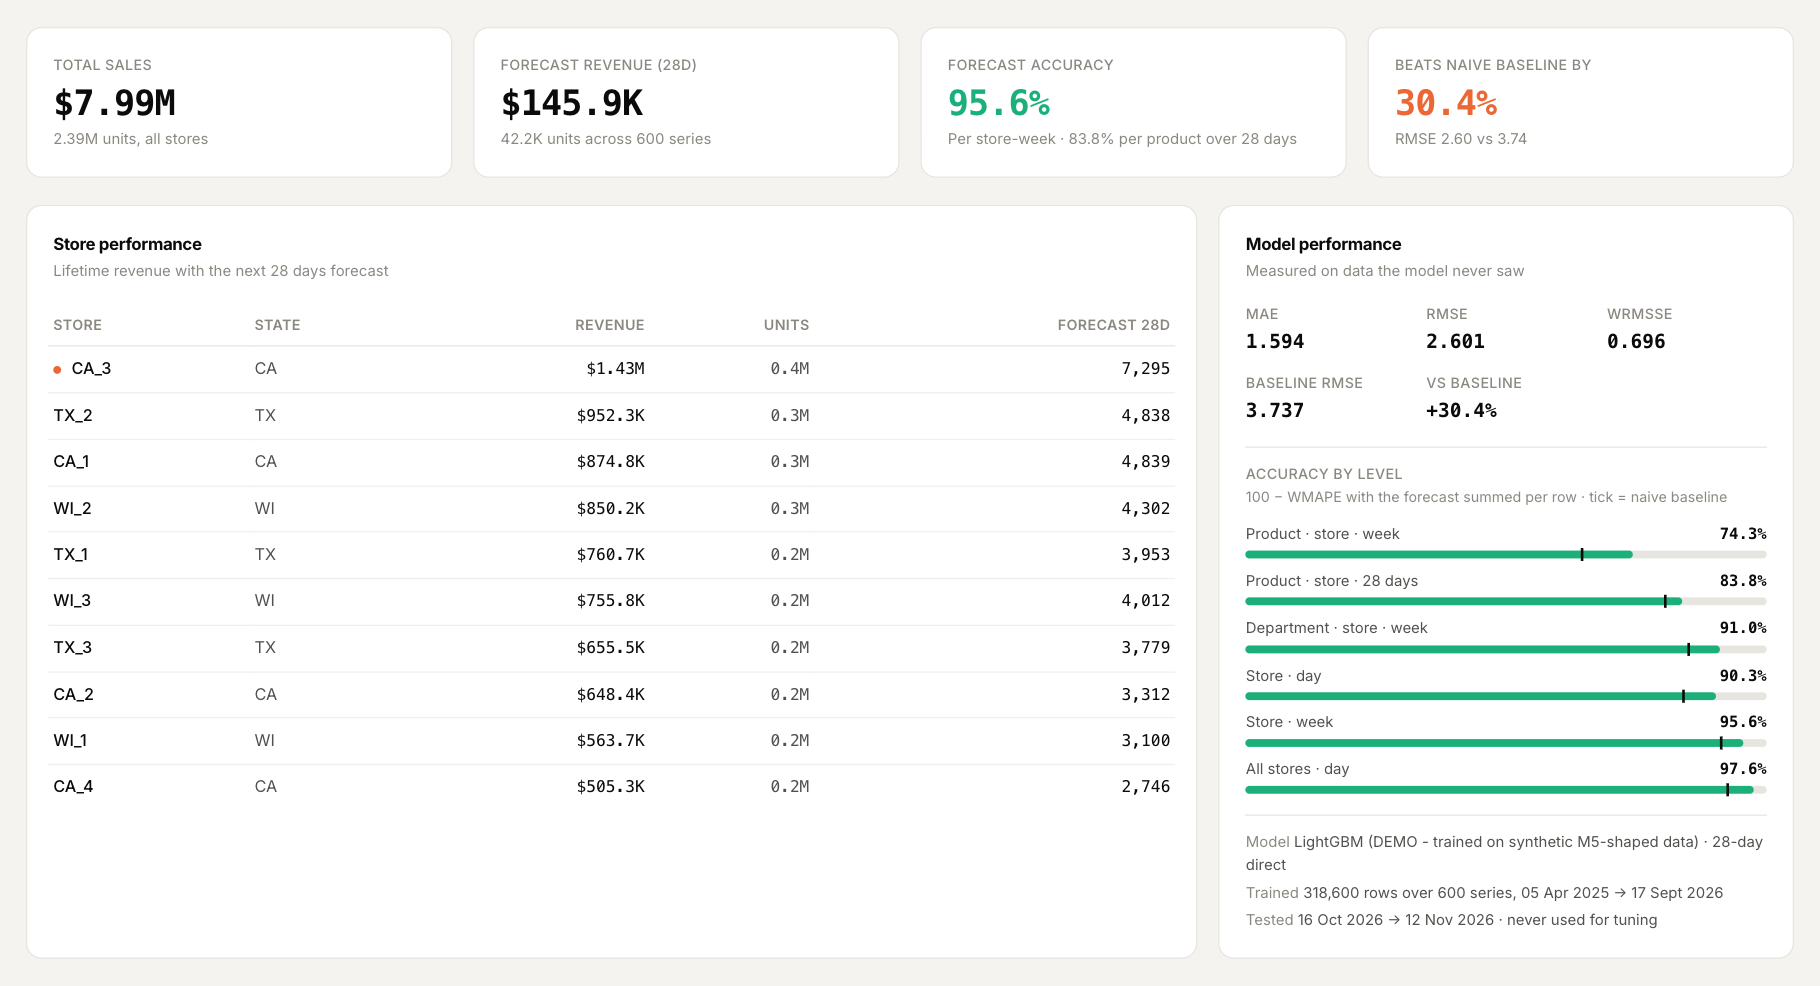
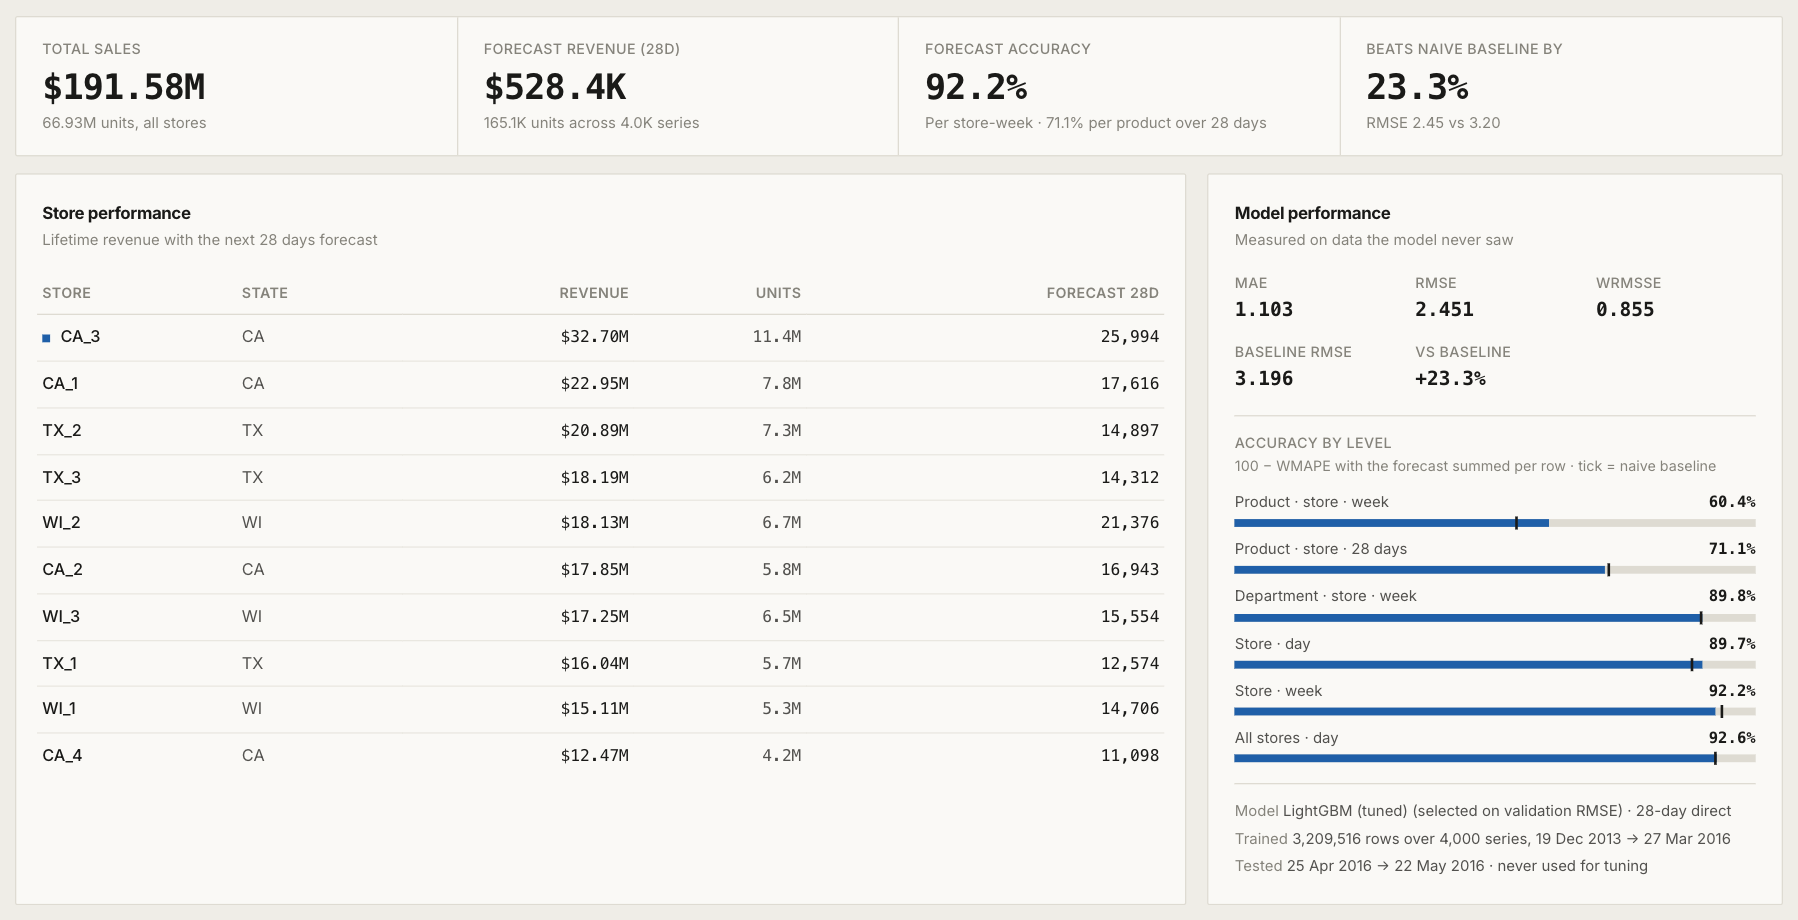
Retake README screenshots on the real M5 model
All four screenshots now come from the dashboard running on the real
M5 artifacts, with the store-week accuracy card, the served-series
history chart and the current styling. Captions updated to match (the
model panel no longer shows WMAPE; the chart covers the 4,000 served
series). The accuracy section drops its synthetic-data note and lists
accuracy by level for the model and the seasonal naive baseline,
including the two levels where the model does not beat it.

diff --git a/README.md b/README.md
@@ -11,11 +11,13 @@ Built on the **M5 / Walmart** dataset: 3,049 products × 10 stores × 3 states, 
 
 ## The dashboard
 
-![Chain-wide KPIs and the 28-day forecast](photos/dashboard-overview.png)
+![KPIs and the 28-day forecast](photos/dashboard-overview.png)
 
-The landing view: lifetime revenue and units, the next 28 days of expected revenue, and the hold-out
-score stated as accuracy (`100 - WMAPE`) next to how far it beats the naive baseline. The chart runs
-1,941 observed days into the dashed 28-day forecast — the deep notches are the Christmas closures.
+The landing view: lifetime revenue and units for the whole chain, the next 28 days of expected
+revenue for the 4,000 product-store series the model serves, hold-out accuracy per store-week (with
+per-product accuracy over the 28-day window beneath it), and how far the model beats the naive
+baseline on RMSE. The chart plots those same 4,000 series for two years and runs into the dashed
+28-day forecast, so history and forecast share one scale. The deep notches are the Christmas closures.
 
 ![Live forecasting, top products, category and weekday breakdowns](photos/dashboard-forecast-analytics.png)
 
@@ -26,26 +28,39 @@ highlighted.
 
 ![Store performance table, model metrics, and restocking insights](photos/dashboard-stores-insights.png)
 
-Every store ranked by lifetime revenue with its own 28-day forecast, the full metric set (MAE, RMSE,
-WMAPE, WRMSSE) alongside the training and test windows, and the two lists a stocking decision actually
-needs — products with declining demand ranked by revenue at risk, and growing ones ranked by
-opportunity.
+Every store ranked by lifetime revenue with its own 28-day forecast; the model's error metrics (MAE,
+RMSE, WRMSSE and the baseline) with accuracy at each level and the training and test windows; and the
+two lists a stocking decision actually needs — products with declining demand ranked by revenue at
+risk, and growing ones ranked by opportunity.
 
 ### Accuracy at the level decisions are made
 
-![Accuracy card and accuracy by level, from a demo run on synthetic data](photos/dashboard-accuracy-by-level.png)
+![Accuracy card and accuracy by level](photos/dashboard-accuracy-by-level.png)
 
-*This screenshot is from a demo run on **synthetic** M5-shaped data (600 series), not the real M5
-results above. It shows the layout. Its numbers are not the project's results.*
+Scored per product, per store, per day, most of the forecast error is chance: an item that sells a
+few units a day sells one on some days and six on others, and no model can know which. Buyers order
+per product per week or month, and planners look at stores and departments, where that noise largely
+cancels. So the dashboard leads with accuracy per **store-week**, with **per-product accuracy over the
+28-day window** underneath. The *Accuracy by level* panel scores the same test window
+(25 Apr – 22 May 2016) with the forecast summed to each level; the tick marks the seasonal naive
+baseline. The scoring lives in `forecasting/evaluation.py`.
 
-Scored per product, per store, per day, most of the forecast error is chance. Even a model that knew
-each item's true expected demand would land around 40% accuracy there. Buyers order per product per
-week or month, and planners look at stores and departments, where that noise largely cancels. So
-the dashboard now leads with accuracy per **store-week**, with **per-product accuracy over the 28-day
-window** underneath. The *Accuracy by level* panel scores the same test-window forecast summed to
-each level, with a tick marking the seasonal naive baseline. The per-day WMAPE is still computed
-and returned by `/api/metrics`, but the dashboard no longer shows it. The scoring lives in
-`forecasting/evaluation.py`.
+| Level (accuracy = 100 − WMAPE) | Model | Seasonal naive |
+|---|---|---|
+| Product · store · day | 26.4% | 9.0% |
+| Product · store · week | 60.4% | 54.1% |
+| Product · store · 28 days | 71.1% | 71.7% |
+| Department · store · week | 89.8% | 89.4% |
+| Store · day | 89.7% | 87.9% |
+| Store · week | 92.2% | 93.6% |
+| All stores · day | 92.6% | 92.3% |
+
+The model's lift is at the product level: per product per week it scores 60.4% against the
+baseline's 54.1%, and per product per day 26.4% against 9.0%. At the two levels the headline card
+shows, it is level with or slightly behind the baseline — 92.2% vs 93.6% per store-week, 71.1% vs
+71.7% per product over 28 days. Errors that are small item by item can add up when everything is
+summed, so the higher-level numbers say how predictable the totals are, not how much the model adds.
+The per-day WMAPE is still computed and returned by `/api/metrics`; the dashboard no longer shows it.
 
 ---
 
